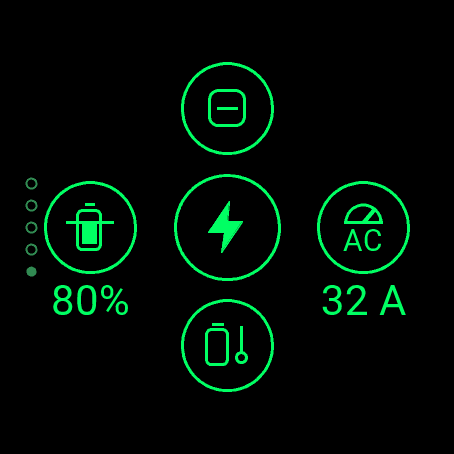
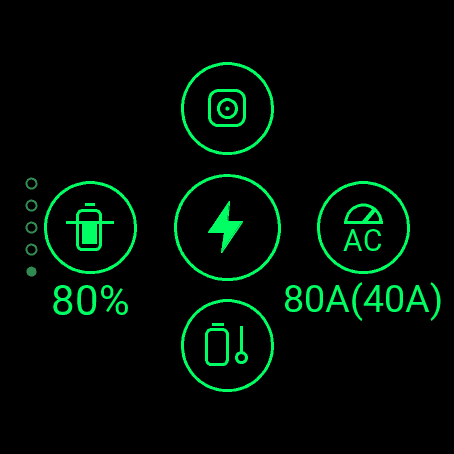
AC limit: show the charger's cap as 80A(40A); labels step down to fit; new screenshot (#14)
The watch shows the amps that were set and, in brackets, the charger's maximum when it is lower, with no spaces to keep
it short. A label that would run into the bezel steps down a font size. The phone sends the cap as acm, only when the
charger is below the setting. New Charging page screenshot for the README.

Changed region(s): [[0.6167, 0.6167, 0.9868, 0.7093], [0.4626, 0.2159, 0.5242, 0.2775]]

diff --git a/android/app/src/main/java/io/github/doubletwist13/orbit/Controller.kt b/android/app/src/main/java/io/github/doubletwist13/orbit/Controller.kt
@@ -333,6 +333,7 @@ internal fun watchReply(id: Number, s: VehicleStatus?, pending: String?): Map<St
         it.chargeLimit?.takeIf { l -> l in MIN_LIMIT..MAX_LIMIT }?.let { l -> put("lim", l) }
         it.portOpen?.let { o -> put("port", o) }
         it.acSet?.takeIf { a -> a in MIN_AMPS..MAX_AMPS }?.let { a -> put("ac", a) }
+        acCap(it)?.let { c -> put("acm", c) }
         // on or off only: an unavailable or unknown state sends nothing, so the watch shows no state for it
         if (it.preconStatus == "ON" || it.preconStatus == "OFF") put("bp", it.preconStatus == "ON")
         // the car once reported 65565 minutes: a value outside a plausible span is a bad reading, not a time
@@ -500,6 +501,15 @@ internal fun chargeLimitReq(req: Map<*, *>): Int? = numberReq(req, "lim", MIN_LI
 
 /** The AC current limit a watch asks for, in amps. */
 internal fun acLimitReq(req: Map<*, *>): Int? = numberReq(req, "amp", MIN_AMPS..MAX_AMPS)
+
+/**
+ * The charger's maximum, only when it is below the AC limit that was set, so the watch can show what the car will
+ * really draw ("80 A (40)"). Null otherwise, or when either number is missing or not a plausible amp value.
+ */
+internal fun acCap(s: VehicleStatus): Int? {
+    val set = s.acSet?.takeIf { it in MIN_AMPS..MAX_AMPS } ?: return null
+    return s.acCharger?.takeIf { it in MIN_AMPS..MAX_AMPS && it < set }
+}
 
 /**
  * Whether the car reports the AC limit that was set as asked. Only the setting counts: the charger's maximum is a

diff --git a/android/app/src/test/java/io/github/doubletwist13/orbit/ControllerTest.kt b/android/app/src/test/java/io/github/doubletwist13/orbit/ControllerTest.kt
@@ -167,6 +167,15 @@ class ControllerTest {
         assertEquals(null, acLimitReq(mapOf("lim" to 32))) // the charge limit's key is not the amps'
     }
 
+    @Test fun theChargerCapIsSentOnlyWhenItIsBelowTheSetting() {
+        assertEquals(40, watchReply(1, status.copy(acSet = 80, acCharger = 40), null)["acm"])
+        assertFalse(watchReply(1, status.copy(acSet = 24, acCharger = 80), null).containsKey("acm")) // not capped
+        assertFalse(watchReply(1, status.copy(acSet = 40, acCharger = 40), null).containsKey("acm")) // equal: no cap
+        assertFalse(watchReply(1, status.copy(acSet = 80), null).containsKey("acm")) // no charger number
+        assertFalse(watchReply(1, status.copy(acCharger = 40), null).containsKey("acm")) // no setting
+        assertFalse(watchReply(1, status.copy(acSet = 80, acCharger = 5), null).containsKey("acm")) // not an amp value
+    }
+
     @Test fun acCurrentIsDoneOnlyWhenTheSettingMatches() {
         assertTrue(acLimitDone(status.copy(acSet = 32), 32))
         assertTrue(acLimitDone(status.copy(acSet = 80, acCharger = 40), 80)) // above the charger's 40 A, taken as asked

diff --git a/docs/watch-design.md b/docs/watch-design.md
@@ -70,13 +70,13 @@ readable, so check them for the Venu X1 and fenix):
   under a top or bottom one would run into the middle icon or the bezel; a sixth icon needs another answer. Every one
   asks for a confirm tap, and the page redraws from the car's state while it is open. The AC amps are what was set,
   not the charger's maximum: on the one car tried, 80 A set on a 40 A charger showed 80 A on the watch while the car
-  showed 40 A, the lower of the two (whether the page should show that cap too is open). The AC limit is a menu of
-  common values (10, 16, 24, 32, 40, 48 and 80 A) and "Other...", which opens a picker over the whole range of 10 to
-  80 A in 1 A steps. Still to come: the schedule (#92) and V2X discharge. The schedule
-  is probably on and off only (the times are set in Lucid's app). Discharge (V2X) is only named for now: an outlined
-  bolt with a small red arrow on Main, the glance and the Charging page, which says "Discharging" and offers no start
-  or stop. Which field carries the power then is unknown, so no kW is shown; it needs a capture from a car that is
-  giving power out.
+  showed 40 A, the lower of the two, so the label adds the cap in brackets, "80A(40A)", only when the charger is
+  below the setting. The AC limit is a menu of common values (10, 16, 24, 32, 40, 48 and 80 A) and "Other...", which
+  opens a picker over the whole range of 10 to 80 A in 1 A steps. Still to come: the schedule (#92) and V2X discharge.
+  The schedule is probably on and off only (the times are set in Lucid's app). Discharge (V2X) is only named for now:
+  an outlined bolt with a small red arrow on Main, the glance and the Charging page, which says "Discharging" and
+  offers no start or stop. Which field carries the power then is unknown, so no kW is shown; it needs a capture from
+  a car that is giving power out.
 - The 0.5.0 layout looked right in the simulator on the Venu X1 (rectangular), the fenix 7 (small round), the fenix 8
   (47 mm) and the Epix 2 Pro (47 mm); none has been tried on a real watch. The About page, redone in 0.5.1 for the
   Colour button, was checked on the Venu 3 and in the fenix 7 simulator.

diff --git a/README.md b/README.md
@@ -119,8 +119,8 @@ same things.
     gets the battery to temperature before a fast charge. It says "Not available" if the car reports that it cannot.
   - **AC current limit.** A dial with "AC" under it, and the amps that were set under the icon. It opens a list of
     common values (10, 16, 24, 32, 40, 48 and 80 A) and "Other...", which opens a picker over 10 to 80 A. The
-    charger's own maximum still applies: the car draws the lower of the two, so the amps shown can be more than the
-    car draws.
+    charger's own maximum still applies: the car draws the lower of the two. When the charger is below what you
+    set, its maximum follows in brackets, so `80A(40A)` is 80 A set on a 40 A charger, drawing 40 A.
 - **Toasts.** An action that sends without a confirm (lock, lights, pet mode) or after one shows a short toast
   ("Locking...") so you know the tap was taken. The result comes later, from the car.
 - **Stays current.** The phone reads the car every 30 s while it is awake or charging, or while the battery is
@@ -196,7 +196,8 @@ to vary wildly: expect results that are much faster or much slower, and don't re
        alt="Actions: lock in the middle with frunk, trunk, climate, windows, horn and lights round it" width="200">
   <img src="docs/images/watch-charging.png"
        alt="Charging: the bolt (start or stop) in the middle, with the charge port above, preconditioning below, the
-       charge limit (80%) on the left and the AC current limit (32 A) on the right" width="200">
+       charge limit (80%) on the left and the AC current limit on the right: 80A set, capped by a 40A charger"
+       width="200">
   <img src="docs/images/watch-lock.png" alt="Choose lock or unlock" width="200">
   <img src="docs/images/watch-climate.png" alt="Choose climate off, on with the car's set point, or pet mode"
        width="200">

diff --git a/docs/protocol.md b/docs/protocol.md
@@ -78,6 +78,7 @@ for an `id` has `pending` absent or empty.
 | `lim` | int | The charge limit in percent; omitted when the car reports none or a value outside 50..100 |
 | `port` | bool | Charge port open (ajar counts as open); omitted when the car reports no state for it |
 | `ac` | int | The AC limit that was set, in amps (not the charger's maximum); omitted when none or outside 10..80 |
+| `acm` | int | The charger's maximum in amps, sent only when it is below `ac` (the car then draws this, not `ac`) |
 | `bp` | bool | Battery preconditioning is on; omitted when the car says it is unavailable or reports nothing |
 | `bpm` | int | Minutes of preconditioning left; sent only while on and plausible (`MAX_PRECON_MIN`, `Controller.kt`) |
 | `door` | bool | Any of the four doors open (ajar counts); sent only when `true` |
